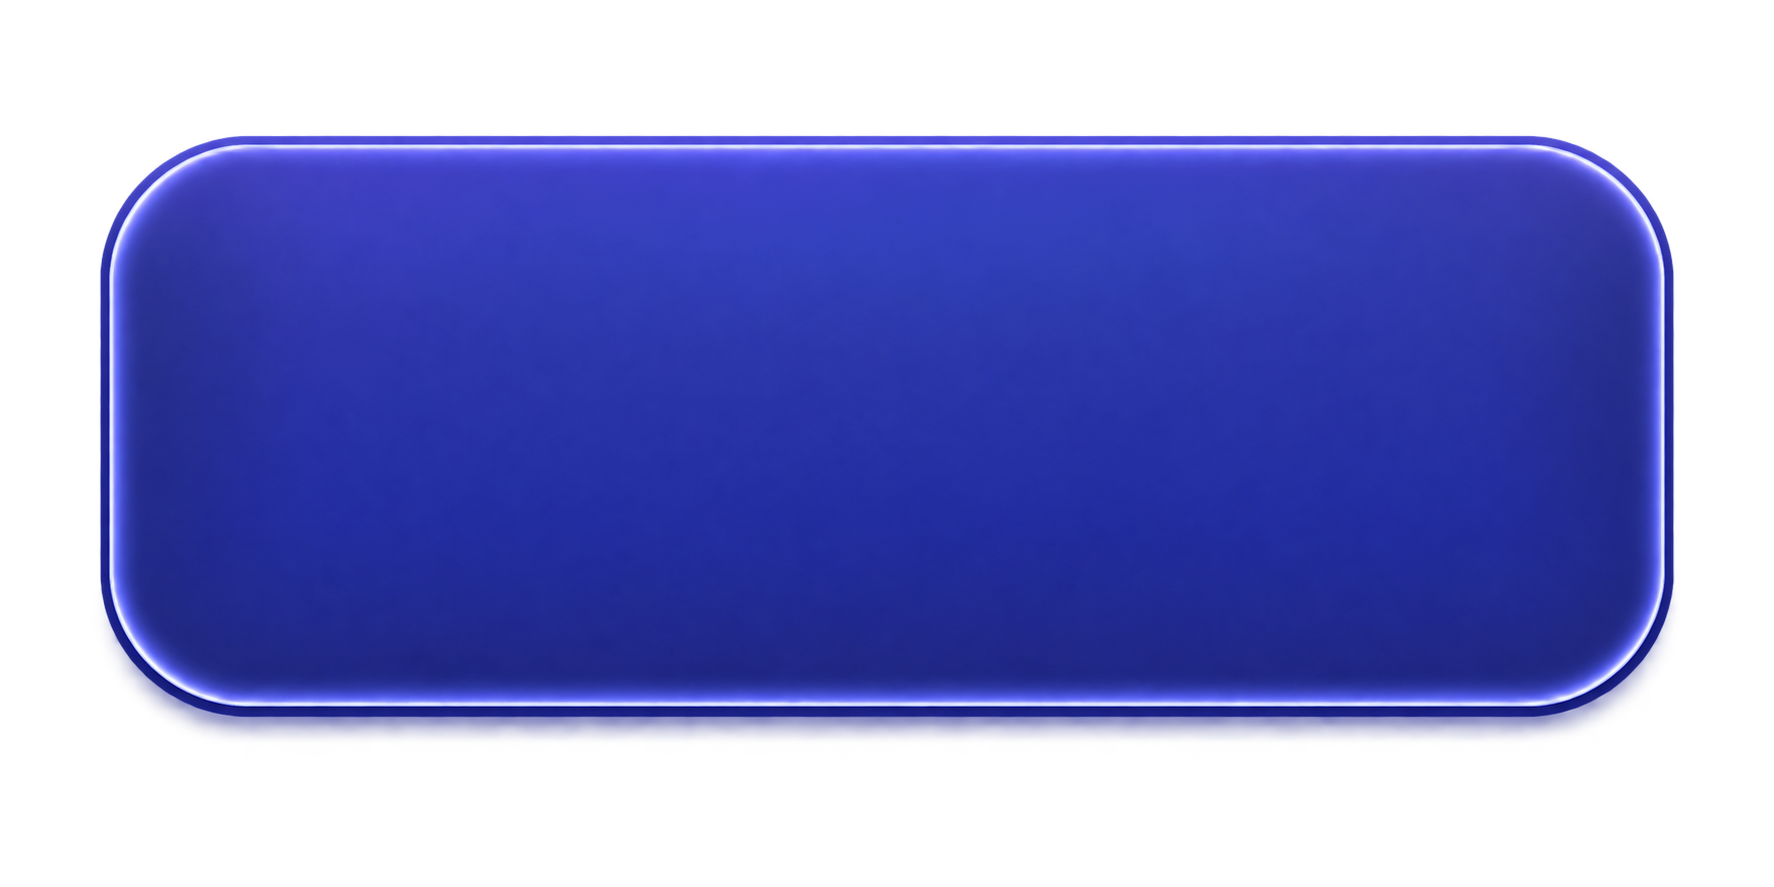
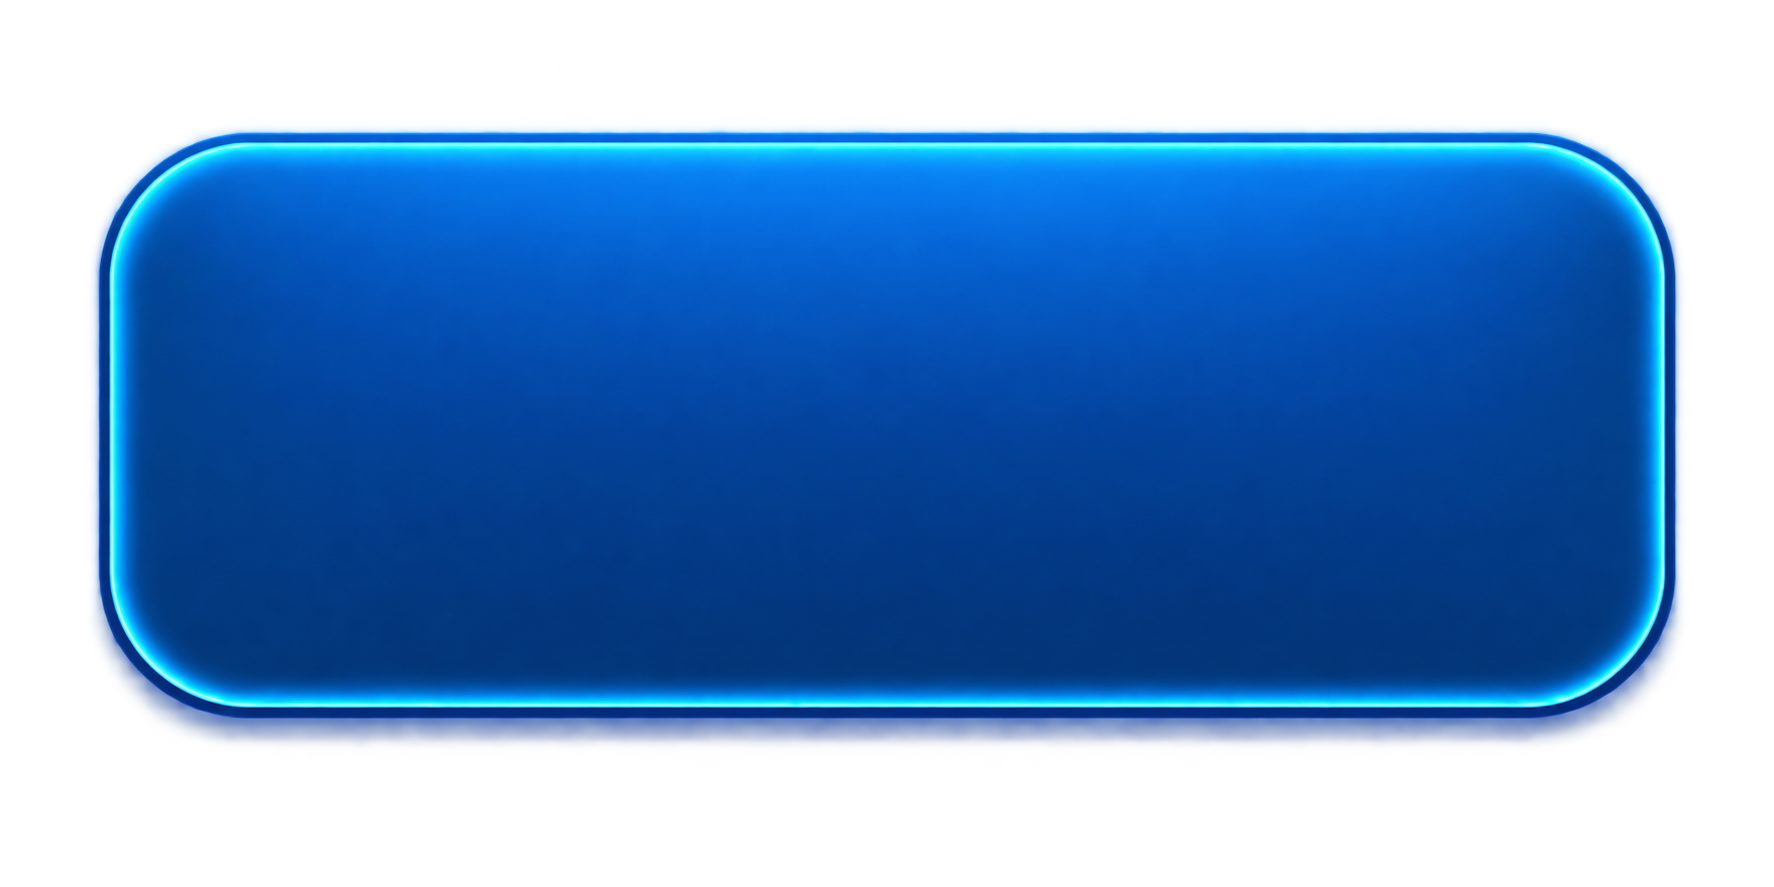
Match Game Over artwork to supplied mobile reference

diff --git a/Assets/Scripts/BalloonDogModernUI.cs b/Assets/Scripts/BalloonDogModernUI.cs
@@ -887,7 +887,7 @@ public sealed class BalloonDogModernUI : MonoBehaviour
             card,
             "StoreOfferButton",
             "COMING SOON",
-            new Vector2(0f, -125f),
+            new Vector2(0f, -132f),
             new Vector2(300f, 82f),
             MenuBlue,
             Color.white,
@@ -1299,7 +1299,7 @@ public sealed class BalloonDogModernUI : MonoBehaviour
         content.gameObject.AddComponent<BalloonDogResultLayoutFit>();
         resultTitleArtwork = CreateResourceImage(
             content, "GameOverTitleArtwork", "GameOver/Title",
-            new Vector2(0f, 740f), new Vector2(840f, 420f));
+            new Vector2(0f, 740f), new Vector2(640f, 320f));
         // Completion keeps its existing LEVEL COMPLETE wording.
         resultTitleText = CreateResultTitleLine(
             content, "ResultTitleTop", "LEVEL", new Vector2(0f, 830f),
@@ -1446,44 +1446,23 @@ public sealed class BalloonDogModernUI : MonoBehaviour
         Color ringColor)
     {
         RectTransform card = CreateRect(name, parent);
-        SetRect(card, position, new Vector2(680f, 340f));
+        SetRect(card, position, new Vector2(560f, 230f));
         Image cardArtwork = CreateResourceImage(card, "CardArtwork", "GameOver/StatCard",
-            Vector2.zero, new Vector2(680f, 340f));
-        cardArtwork.color = new Color(0.42f, 1f, 1f, 1f);
+            Vector2.zero, new Vector2(560f, 230f));
+        cardArtwork.color = Color.white;
 
-        Image halo = CreateImage(
-            card,
-            "IconHalo",
-            new Vector2(0f, 148f),
-            new Vector2(148f, 148f),
-            new Color(ringColor.r, ringColor.g, ringColor.b, 0.24f),
-            true);
-        AddGraphicShadow(
-            halo,
-            new Color(ringColor.r, ringColor.g, ringColor.b, 0.42f),
-            new Vector2(0f, -3f));
-
-        Image medallion = CreateImage(
-            card,
-            "IconMedallion",
-            new Vector2(0f, 148f),
-            new Vector2(128f, 128f),
-            new Color(0.02f, 0.20f, 0.34f, 1f),
-            true);
-        Outline medallionOutline = medallion.gameObject.AddComponent<Outline>();
-        medallionOutline.effectColor = ringColor;
-        medallionOutline.effectDistance = new Vector2(4f, -4f);
-        AddGraphicShadow(
-            medallion,
-            new Color(0.02f, 0.02f, 0.18f, 0.80f),
-            new Vector2(0f, -7f));
+        // Use the supplied cyan badge artwork at its original aspect ratio.
+        Image medallion = CreateResourceImage(
+            card, "IconBadge", "GameOver/IconBadge",
+            new Vector2(0f, 108f), new Vector2(132f, 132f));
+        medallion.color = Color.white;
 
         Image icon = CreateResourceImage(
             medallion.transform,
             "Icon",
             iconResourcePath,
             Vector2.zero,
-            useCoinArtwork ? new Vector2(96f, 96f) : new Vector2(88f, 80f));
+            useCoinArtwork ? new Vector2(76f, 76f) : new Vector2(69f, 63f));
         icon.color = useCoinArtwork
             ? Color.white
             : new Color(1f, 0.73f, 0.08f, 1f);
@@ -1492,9 +1471,9 @@ public sealed class BalloonDogModernUI : MonoBehaviour
             card,
             "Caption",
             label,
-            new Vector2(0f, 64f),
-            new Vector2(520f, 56f),
-            39f,
+            new Vector2(0f, 30f),
+            new Vector2(450f, 48f),
+            34f,
             labelColor,
             TextAlignmentOptions.Center);
         caption.characterSpacing = 1f;
@@ -1503,14 +1482,14 @@ public sealed class BalloonDogModernUI : MonoBehaviour
             card,
             "Value",
             "0",
-            new Vector2(0f, -40f),
-            new Vector2(540f, 128f),
-            98f,
+            new Vector2(0f, -48f),
+            new Vector2(460f, 110f),
+            84f,
             Color.white,
             TextAlignmentOptions.Center);
         value.enableAutoSizing = true;
         value.fontSizeMin = 58f;
-        value.fontSizeMax = 98f;
+        value.fontSizeMax = 84f;
         value.overflowMode = TextOverflowModes.Ellipsis;
         AddTextShadow(
             value,
@@ -1523,16 +1502,18 @@ public sealed class BalloonDogModernUI : MonoBehaviour
     {
         Button button = CreateButton(
             parent, "ResultDoubleRewardButton", string.Empty, position,
-            new Vector2(940f, 382f), Color.white, Color.white, null, 1f);
+            new Vector2(650f, 264f), Color.white, Color.white, null, 1f);
         RemoveButtonShadow(button);
         button.GetComponentInChildren<TMP_Text>(true).gameObject.SetActive(false);
         Image background = button.GetComponent<Image>();
         background.sprite = GetResourceSprite("GameOver/DoubleBonus");
         background.type = Image.Type.Simple;
         background.preserveAspect = true;
+        button.transition = Selectable.Transition.None;
+        button.gameObject.AddComponent<BalloonDogBonusPressFeedback>();
         CreatePauseText(button.transform, "BonusHint",
             "Watch an ad to claim 2x reward", new Vector2(0f, -125f),
-            new Vector2(780f, 44f), 28f, Color.white, TextAlignmentOptions.Center);
+            new Vector2(650f, 44f), 28f, Color.white, TextAlignmentOptions.Center);
         // Existing visual-only bonus: connect an ad completion callback before
         // granting any additional reward. NO THANKS returns to the main menu.
     }

diff --git a/Assets/Scripts/BalloonDogBonusPressFeedback.cs b/Assets/Scripts/BalloonDogBonusPressFeedback.cs
@@ -1,0 +1,45 @@
+using UnityEngine;
+using UnityEngine.EventSystems;
+using UnityEngine.UI;
+
+// Keeps the supplied sprite sharp while giving the bonus button a pressed state.
+[RequireComponent(typeof(Image))]
+public sealed class BalloonDogBonusPressFeedback : MonoBehaviour,
+    IPointerDownHandler, IPointerUpHandler, IPointerExitHandler
+{
+    private Image image;
+    private RectTransform rect;
+
+    private void Awake()
+    {
+        image = GetComponent<Image>();
+        rect = GetComponent<RectTransform>();
+    }
+
+    private void OnDisable()
+    {
+        Restore();
+    }
+
+    public void OnPointerDown(PointerEventData eventData)
+    {
+        rect.localScale = Vector3.one * 0.95f;
+        image.color = new Color(0.62f, 0.69f, 0.64f, 1f);
+    }
+
+    public void OnPointerUp(PointerEventData eventData)
+    {
+        Restore();
+    }
+
+    public void OnPointerExit(PointerEventData eventData)
+    {
+        Restore();
+    }
+
+    private void Restore()
+    {
+        if (rect != null) rect.localScale = Vector3.one;
+        if (image != null) image.color = Color.white;
+    }
+}
